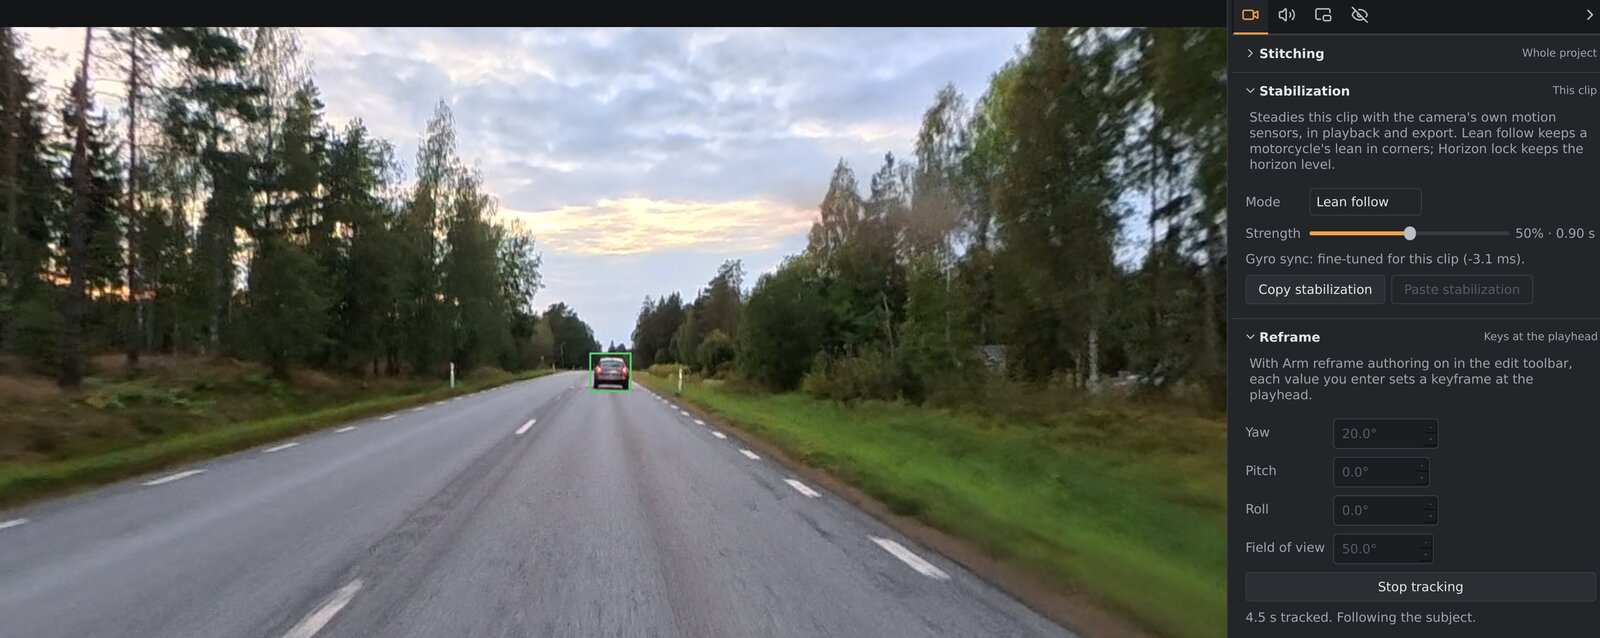
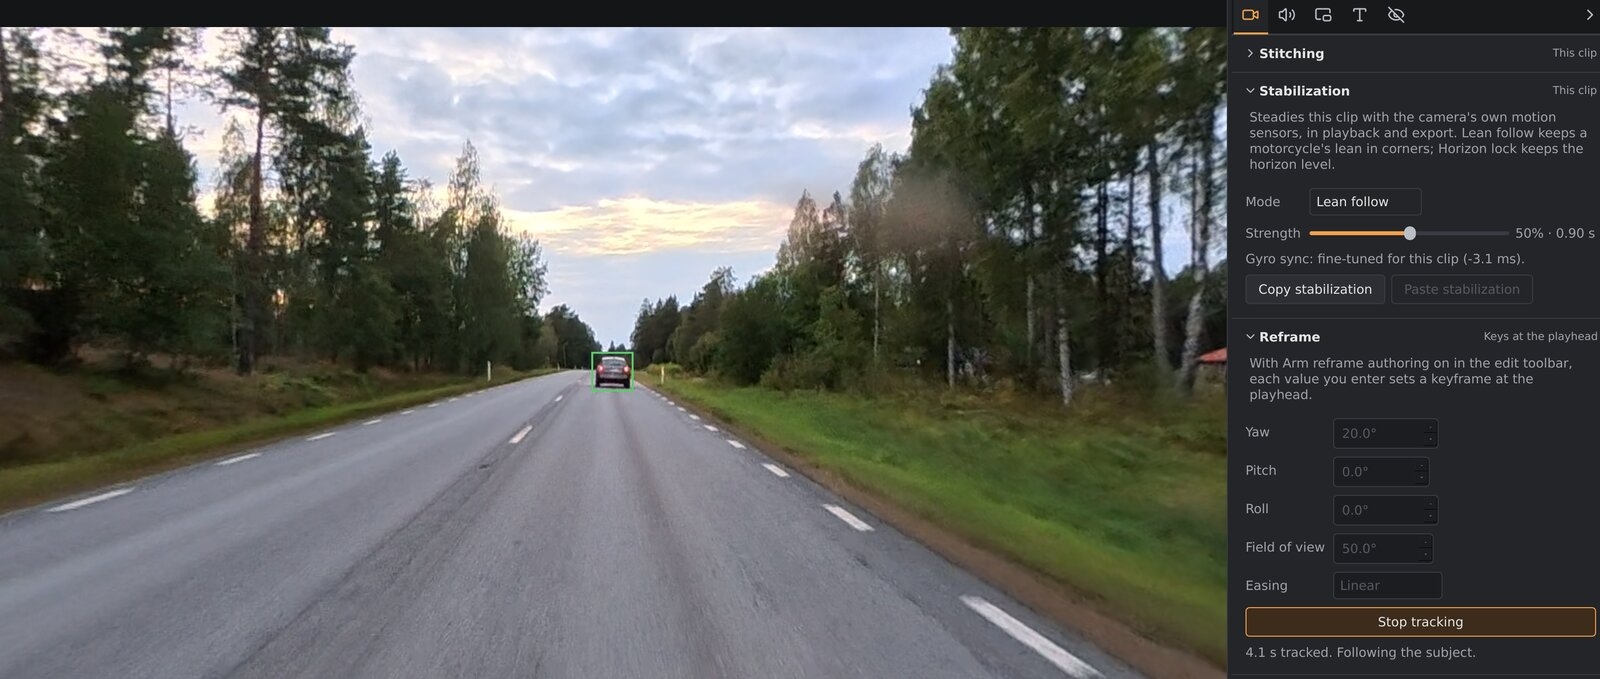
fix(ui): tracking status shows under the Track subject button
While Track subject ran, its status line ("4.1 s tracked. Following the
subject.") was drawn over the Yaw label at the top of the Reframe
section. Showing a flat clip hides the status and "unavailable" rows in
the section's form; tracking then showed only the label, which a hidden
row doesn't lay out. Both now show and hide their row.

The manual's Track subject screenshot is retaken with the status in its
place and the current settings sidebar.

diff --git a/tests/settings_sidebar_test.cpp b/tests/settings_sidebar_test.cpp
@@ -438,6 +438,28 @@ void testTitleTab(SettingsSidebar &bar)
     place->setNoClip();
 }
 
+// The tracking status shows under the Track subject button, also after a
+// clip has been shown (setFlatClip hides the status row while no run is on).
+void testTrackStatus(SettingsSidebar &bar)
+{
+    ReframePanel *reframe = bar.reframe();
+    QWidget *button = reframe->trackStopButton();
+    auto *status = find<QLabel>(reframe, "trackStatus");
+    if (!status)
+        return;
+    bar.setCurrentIndex(SettingsSidebar::VideoTab);
+    reframe->setExpanded(true);
+    reframe->setFlatClip(false);
+    reframe->setTrackRunning(true);
+    reframe->setTrackStatus(QStringLiteral("1.0 s tracked."));
+    QApplication::processEvents();
+    CHECK(status->isVisible());
+    CHECK(status->mapTo(reframe, QPoint()).y() > button->mapTo(reframe, QPoint()).y());
+    reframe->setTrackRunning(false);
+    QApplication::processEvents();
+    CHECK(!status->isVisible());
+}
+
 int main(int argc, char **argv)
 {
     if (qEnvironmentVariableIsEmpty("QT_QPA_PLATFORM"))
@@ -464,6 +486,7 @@ int main(int argc, char **argv)
     testOverlayLayer(bar);
     testEasing(bar);
     testTitleTab(bar);
+    testTrackStatus(bar);
     testProjectSettingsDialog();
 
     if (const QByteArray shot = qgetenv("ORBIS_SETTINGS_SHOT"); !shot.isEmpty()) {

diff --git a/src/ui/panels/ReframePanel.cpp b/src/ui/panels/ReframePanel.cpp
@@ -71,6 +71,7 @@ ReframePanel::ReframePanel(QWidget *parent)
     m_trackUnavailable->hide();
     form()->addRow(m_trackUnavailable);
     m_trackStatus = new QLabel(this);
+    m_trackStatus->setObjectName(QStringLiteral("trackStatus"));
     m_trackStatus->setWordWrap(true);
     m_trackStatus->hide();
     form()->addRow(m_trackStatus);
@@ -159,7 +160,9 @@ void ReframePanel::setTrackUnavailable(const QString &reason)
 {
     m_trackUnavailableReason = reason;
     m_trackUnavailable->setText(reason);
-    m_trackUnavailable->setVisible(!reason.isEmpty());
+    // The row, not just the label: setFlatClip may have hidden the row, and
+    // a label shown in a hidden row isn't laid out (it lands top left).
+    form()->setRowVisible(m_trackUnavailable, !reason.isEmpty() && !m_flat);
     if (!reason.isEmpty())
         m_track->setEnabled(false);
 }
@@ -180,7 +183,7 @@ void ReframePanel::setTrackRunning(bool running)
     m_track->setText(running ? tr("Stop tracking") : tr("Track subject…"));
     m_track->setChecked(running);
     m_track->setEnabled(true);
-    m_trackStatus->setVisible(running);
+    form()->setRowVisible(m_trackStatus, running && !m_flat); // as setTrackUnavailable
     if (!running)
         m_trackStatus->clear();
     for (QDoubleSpinBox *b : {m_yaw, m_pitch, m_roll, m_fov})
